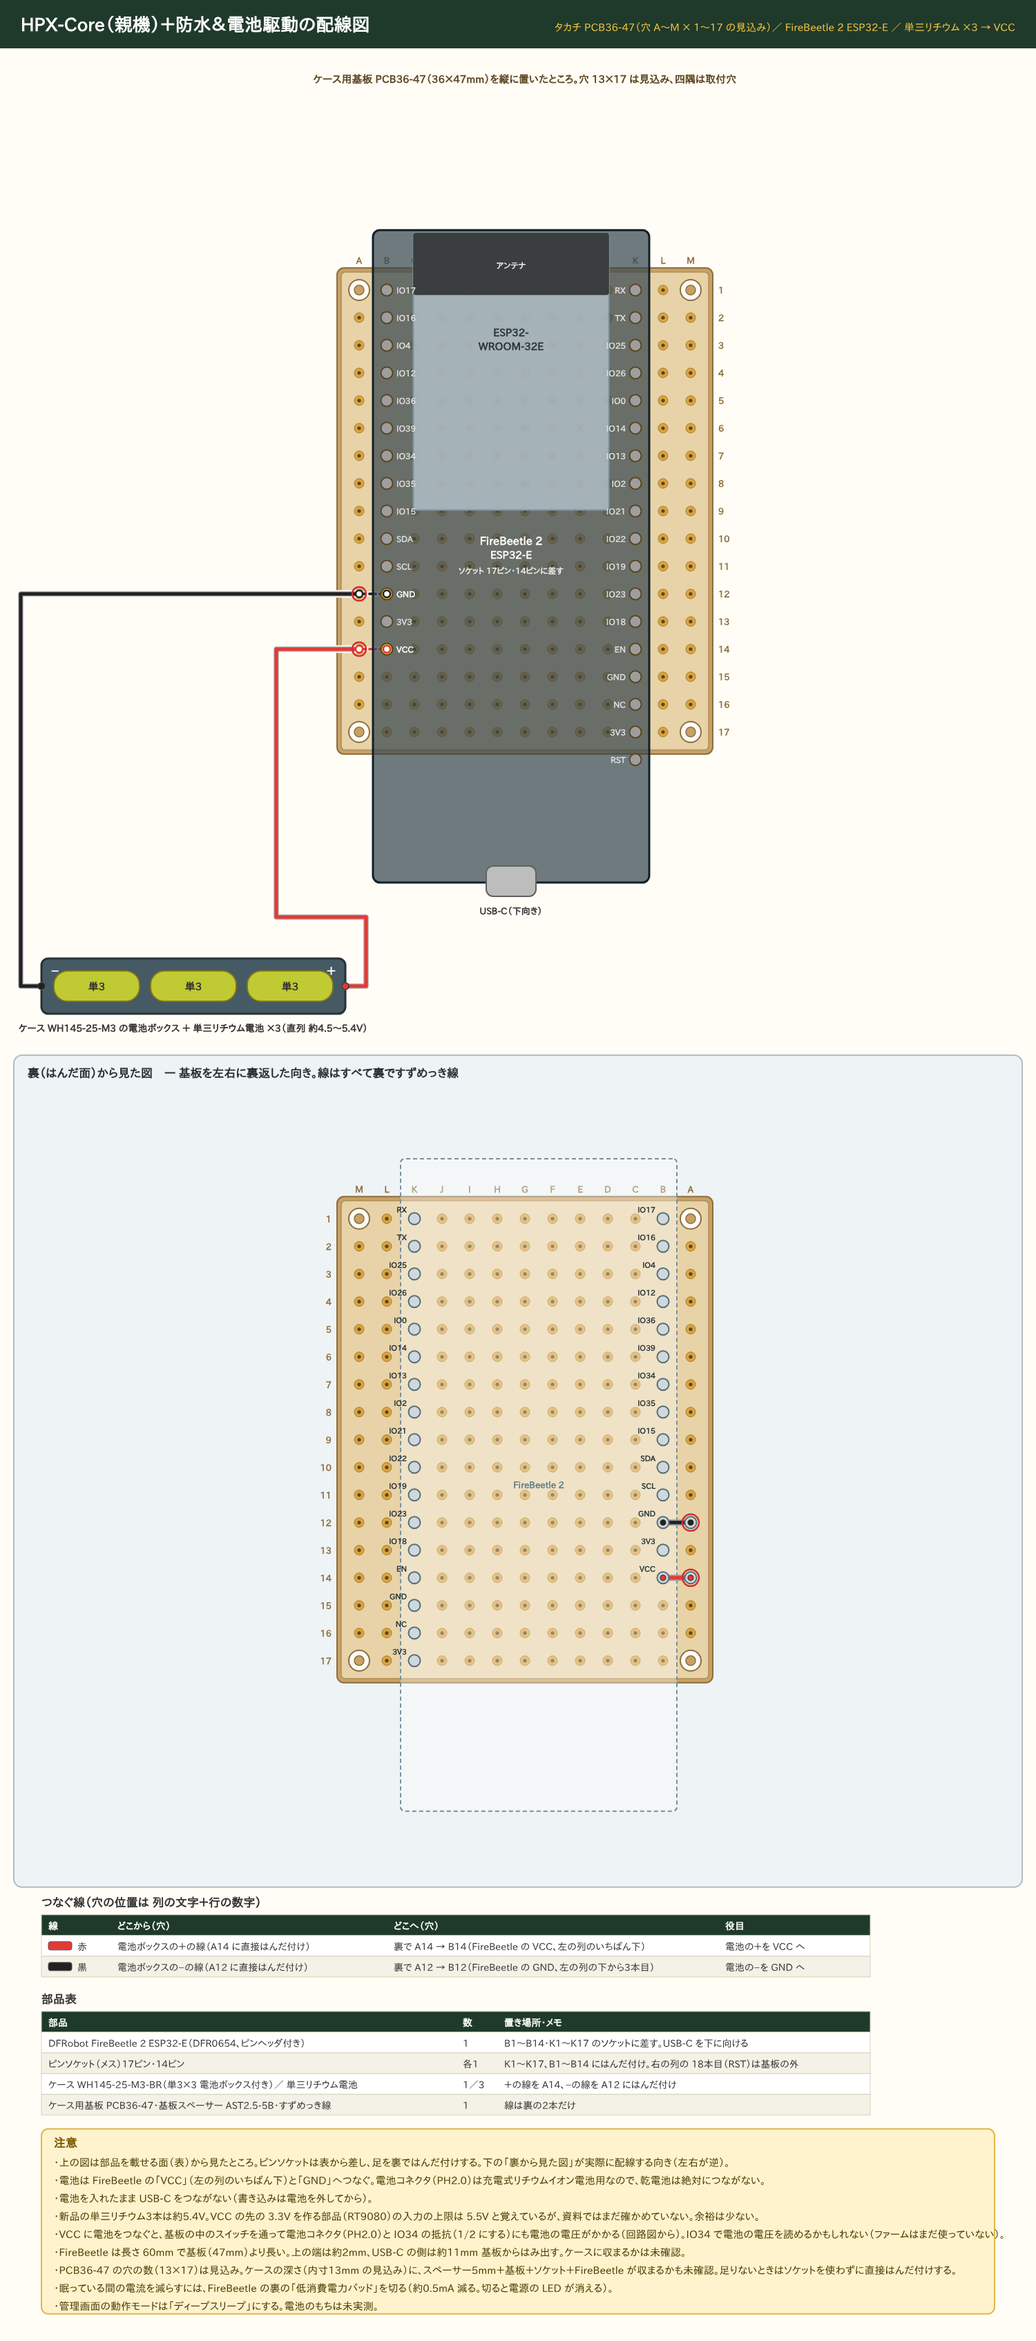
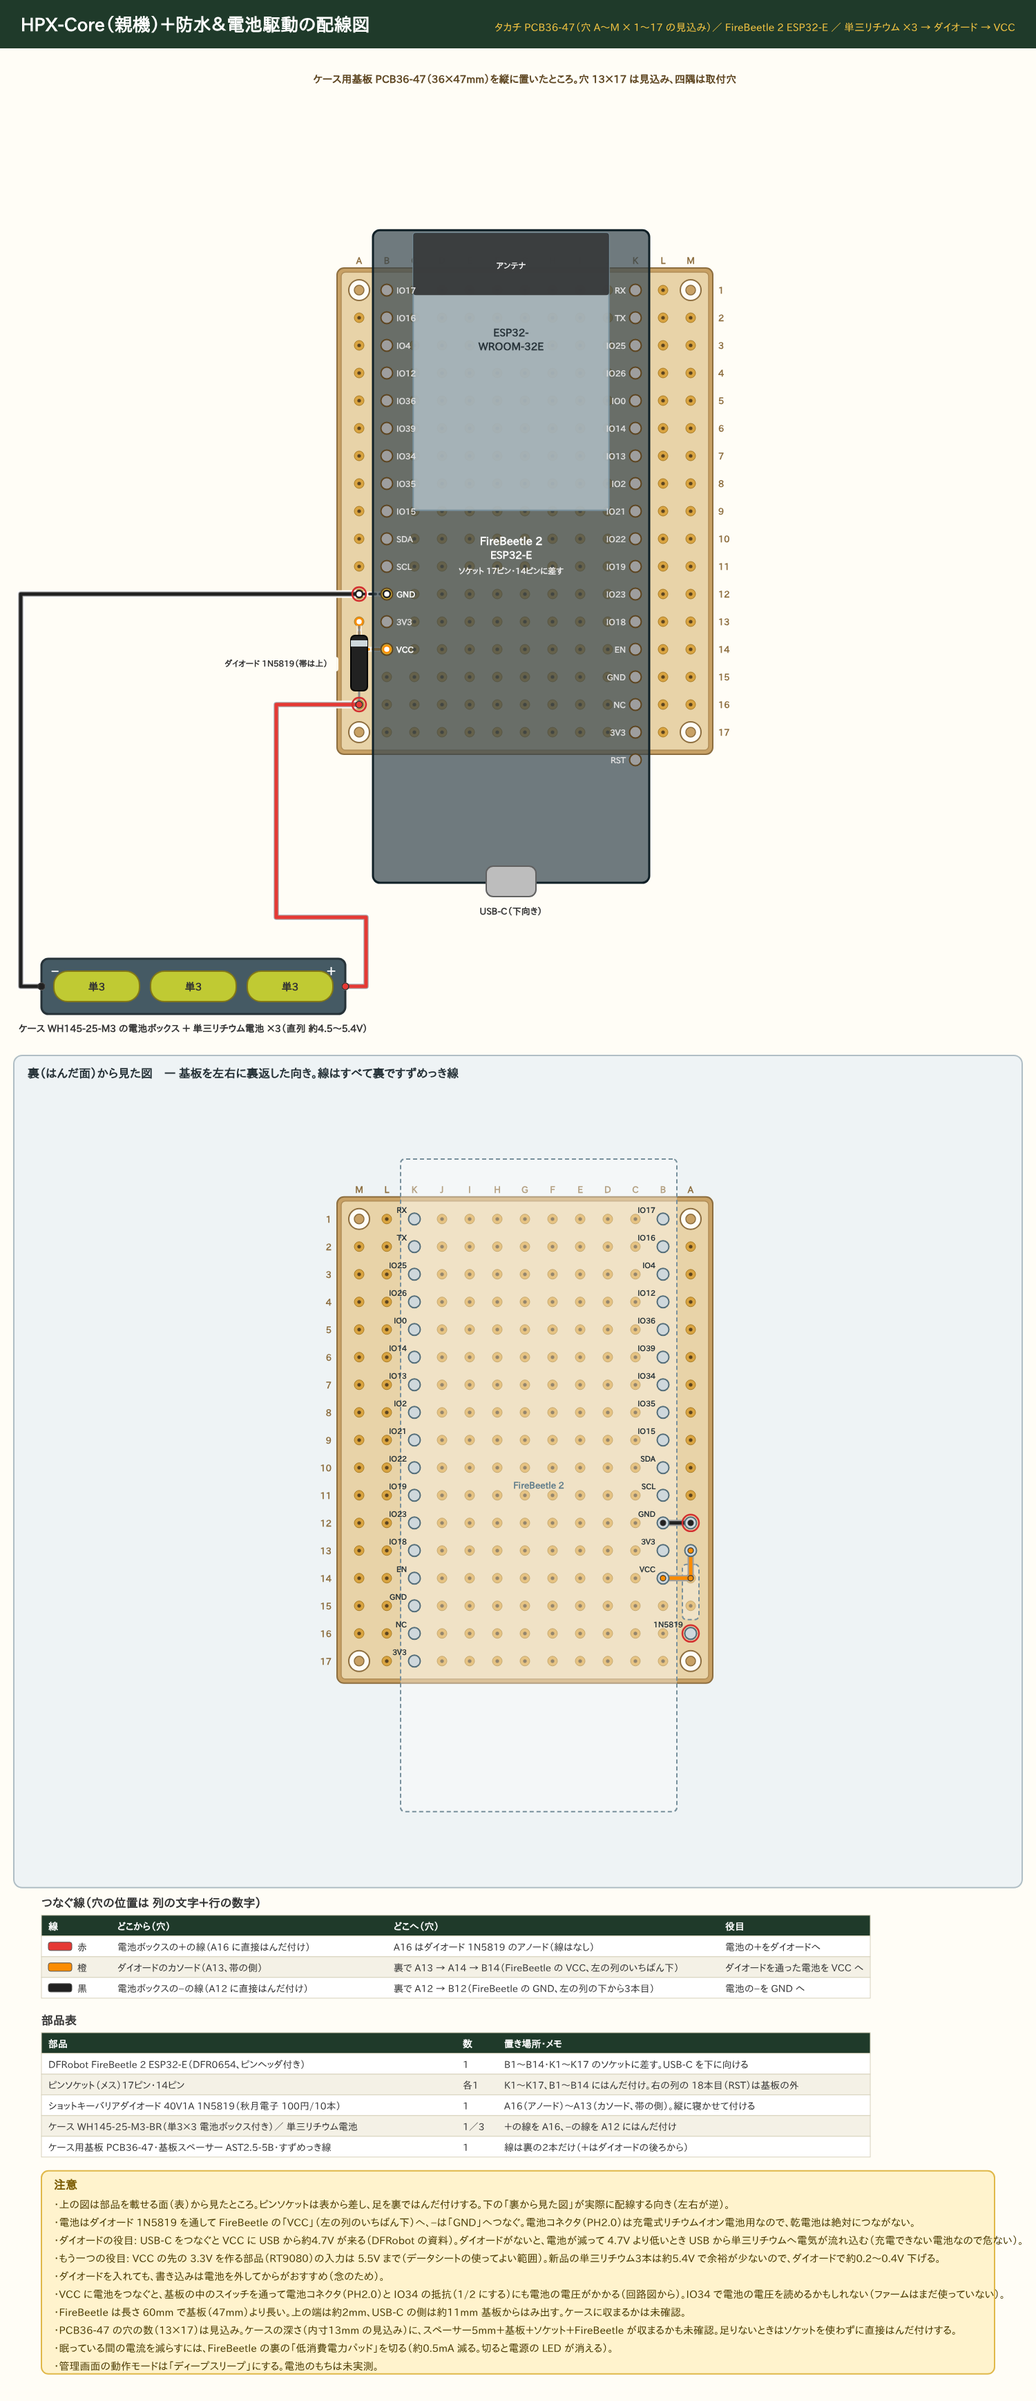
HPX-Core ＋防水＆電池駆動 (FireBeetle 2): 電池＋と VCC の間にダイオード 1N5819 を入れる
USB-C をつないだとき USB の約4.7V (DFRobot の資料の VCC の値) が
単三リチウム (充電できない電池) へ流れ込むのを防ぎ、新品3本の約5.4V を
VCC の先の RT9080 の入力上限 5.5V から離すため。
図・つなぐ線の表・部品表・注意・機器ページ・README を更新。

Claude-Session: https://claude.ai/code/session_01LCC9B4aakB2ekLQa4qJ9BS

diff --git a/hardware/wiring/gen_pcb.py b/hardware/wiring/gen_pcb.py
@@ -1719,10 +1719,11 @@ finish(s, y, [
 
 # ------------------------------------------------------------------ ＋防水＆電池駆動（タカチ PCB36-47）
 # FireBeetle（USB-C が下）。右の列（18ピン）の RX を K1 に置くと RST（18本目）は基板の下の端からはみ出す → ソケットは 17ピン。
-# 電池の＋は VCC（B14）、−は GND（B12）。FireBeetle の VCC は 3.3V を作る部品（RT9080）の入口。
+# 電池の＋は ダイオード 1N5819（A16→A13）を通して VCC（B14）、−は GND（B12）。FireBeetle の VCC は 3.3V を作る部品（RT9080）の入口。
+# TARO 2026-11-14: USB をつないだとき USB の 5V（約4.7V）が単三リチウムへ流れ込まないように、また新品 5.4V を 5.5V 上限から離すためにダイオードを入れた。
 OX, OY = 520, 420
 s = S(1500, 3000)
-title(s, "HPX-Core（親機）＋防水＆電池駆動の配線図", "タカチ PCB36-47（穴 A〜M × 1〜17 の見込み）／ FireBeetle 2 ESP32-E ／ 単三リチウム ×3 → VCC")
+title(s, "HPX-Core（親機）＋防水＆電池駆動の配線図", "タカチ PCB36-47（穴 A〜M × 1〜17 の見込み）／ FireBeetle 2 ESP32-E ／ 単三リチウム ×3 → ダイオード → VCC")
 board(s, 13, 17, " ")
 s.text(OX + 6 * P, 120, "ケース用基板 PCB36-47（36×47mm）を縦に置いたところ。穴 13×17 は見込み、四隅は取付穴", 15, "middle", "bold", "#5d4520")
 for c, r in ((0, 0), (12, 0), (0, 16), (12, 16)):
@@ -1731,7 +1732,18 @@ for c, r in ((0, 0), (12, 0), (0, 16), (12, 16)):
     s.add(f'<circle cx="{x}" cy="{y}" r="7" fill="#c8a165" stroke="#8d6e3f" stroke-width="1.5"/>')
 REC["board"] = REC["board"] + s.items[-8:]
 fx1, fy1, fx2, fy2 = fb("B", "K", 1, True, {"B12", "B14"}, "ソケット 17ピン・14ピンに差す")
-tp, tm = H(*hole("A14")), H(*hole("A12"))
+# ショットキーダイオード 1N5819（A 列に縦に寝かせて付ける。A16＝アノード、A13＝カソード（帯の側、上））
+(dx1, dy1), (dx2, dy2) = H(*hole("A16")), H(*hole("A13"))
+rec_pin(dx1, dy1, "1N5819"); rec_pin(dx2, dy2, "")
+s.top.append(f'<line x1="{dx1}" y1="{dy1}" x2="{dx2}" y2="{dy2}" stroke="#888" stroke-width="3"/>')
+dmy = (dy1 + dy2) / 2
+s.top.append(f'<rect x="{dx1-12}" y="{dmy-40}" width="24" height="80" rx="6" fill="#212121" stroke="#000" stroke-width="2"/>')
+s.top.append(f'<rect x="{dx1-12}" y="{dmy-33}" width="24" height="9" fill="#cfd8dc"/>')
+for x_, y_ in ((dx1, dy1), (dx2, dy2)):
+    s.top.append(f'<circle cx="{x_}" cy="{y_}" r="4" fill="#666"/>')
+rec_part(dx1 - 12, dmy - 40, 24, 80, "")
+tag(dx1 - 120, dmy + 5, "ダイオード 1N5819（帯は上）", 12, "middle", w=180)
+tp, tm = H(*hole("A16")), H(*hole("A12"))
 bx0, by0 = 60, fy2 + 110
 s.rect(bx0, by0, 440, 80, "#455a64", "#263238", 10, 3)
 for i in range(3):
@@ -1742,28 +1754,31 @@ s.text(bx0 + 14, by0 + 24, "−", 18, "start", "bold", "#fff")
 s.text(bx0 + 220, by0 + 106, "ケース WH145-25-M3 の電池ボックス ＋ 単三リチウム電池 ×3（直列 約4.5〜5.4V）", 14, "middle", "bold")
 s.wire([(bx0 + 440, by0 + 40), (bx0 + 470, by0 + 40), (bx0 + 470, fy2 + 50), (OX - 120, fy2 + 50), (OX - 120, tp[1]), tp], "red")
 s.wire([(bx0, by0 + 40), (bx0 - 30, by0 + 40), (bx0 - 30, tm[1]), tm], "black")
-solder_mark(s, *hole("A14")); solder_mark(s, *hole("A12"))
-w("red", "A14", "B14")      # 電池＋ → VCC
+solder_mark(s, *hole("A16")); solder_mark(s, *hole("A12"))
+w("orange", "A13", "A14", "B14")   # ダイオードのカソード → VCC
 w("black", "A12", "B12")    # 電池− → GND
 check_back("HPX-Core_BAT_pcb.svg")
 yb = backview(s, by0 + 140, OX + (NC - 1) * P / 2, fy1 - 90, fy2 + 60)
 y = table(s, 60, yb + 40, [
     ["線", "どこから（穴）", "どこへ（穴）", "役目"],
-    ["red", "電池ボックスの＋の線（A14 に直接はんだ付け）", "裏で A14 → B14（FireBeetle の VCC、左の列のいちばん下）", "電池の＋を VCC へ"],
+    ["red", "電池ボックスの＋の線（A16 に直接はんだ付け）", "A16 はダイオード 1N5819 のアノード（線はなし）", "電池の＋をダイオードへ"],
+    ["orange", "ダイオードのカソード（A13、帯の側）", "裏で A13 → A14 → B14（FireBeetle の VCC、左の列のいちばん下）", "ダイオードを通った電池を VCC へ"],
     ["black", "電池ボックスの−の線（A12 に直接はんだ付け）", "裏で A12 → B12（FireBeetle の GND、左の列の下から3本目）", "電池の−を GND へ"],
 ], [100, 400, 480, 220], "つなぐ線（穴の位置は 列の文字＋行の数字）")
 y = table(s, 60, y + 50, [
     ["部品", "数", "置き場所・メモ"],
     FB_PARTS + ["B1〜B14・K1〜K17 のソケットに差す。USB-C を下に向ける"],
     ["ピンソケット（メス）17ピン・14ピン", "各1", "K1〜K17、B1〜B14 にはんだ付け。右の列の 18本目（RST）は基板の外"],
-    ["ケース WH145-25-M3-BR（単3×3 電池ボックス付き）／ 単三リチウム電池", "1／3", "＋の線を A14、−の線を A12 にはんだ付け"],
-    ["ケース用基板 PCB36-47・基板スペーサー AST2.5-5B・すずめっき線", "1", "線は裏の2本だけ"],
+    ["ショットキーバリアダイオード 40V1A 1N5819（秋月電子 100円/10本）", "1", "A16（アノード）〜A13（カソード、帯の側）。縦に寝かせて付ける"],
+    ["ケース WH145-25-M3-BR（単3×3 電池ボックス付き）／ 単三リチウム電池", "1／3", "＋の線を A16、−の線を A12 にはんだ付け"],
+    ["ケース用基板 PCB36-47・基板スペーサー AST2.5-5B・すずめっき線", "1", "線は裏の2本だけ（＋はダイオードの後ろから）"],
 ], [600, 60, 540], "部品表")
 finish(s, y, [
     "・上の図は部品を載せる面（表）から見たところ。ピンソケットは表から差し、足を裏ではんだ付けする。下の「裏から見た図」が実際に配線する向き（左右が逆）。",
-    "・電池は FireBeetle の「VCC」（左の列のいちばん下）と「GND」へつなぐ。電池コネクタ（PH2.0）は充電式リチウムイオン電池用なので、乾電池は絶対につながない。",
-    "・電池を入れたまま USB-C をつながない（書き込みは電池を外してから）。",
-    "・新品の単三リチウム3本は約5.4V。VCC の先の 3.3V を作る部品（RT9080）の入力の上限は 5.5V と覚えているが、資料ではまだ確かめていない。余裕は少ない。",
+    "・電池はダイオード 1N5819 を通して FireBeetle の「VCC」（左の列のいちばん下）へ、−は「GND」へつなぐ。電池コネクタ（PH2.0）は充電式リチウムイオン電池用なので、乾電池は絶対につながない。",
+    "・ダイオードの役目: USB-C をつなぐと VCC に USB から約4.7V が来る（DFRobot の資料）。ダイオードがないと、電池が減って 4.7V より低いとき USB から単三リチウムへ電気が流れ込む（充電できない電池なので危ない）。",
+    "・もう一つの役目: VCC の先の 3.3V を作る部品（RT9080）の入力は 5.5V まで（データシートの使ってよい範囲）。新品の単三リチウム3本は約5.4V で余裕が少ないので、ダイオードで約0.2〜0.4V 下げる。",
+    "・ダイオードを入れても、書き込みは電池を外してからがおすすめ（念のため）。",
     "・VCC に電池をつなぐと、基板の中のスイッチを通って電池コネクタ（PH2.0）と IO34 の抵抗（1/2 にする）にも電池の電圧がかかる（回路図から）。IO34 で電池の電圧を読めるかもしれない（ファームはまだ使っていない）。",
     "・FireBeetle は長さ 60mm で基板（47mm）より長い。上の端は約2mm、USB-C の側は約11mm 基板からはみ出す。ケースに収まるかは未確認。",
     "・PCB36-47 の穴の数（13×17）は見込み。ケースの深さ（内寸13mm の見込み）に、スペーサー5mm＋基板＋ソケット＋FireBeetle が収まるかも未確認。足りないときはソケットを使わずに直接はんだ付けする。",

diff --git a/hardware/parts/gen_device_pages.py b/hardware/parts/gen_device_pages.py
@@ -56,7 +56,7 @@ DEVICES = [
                  [('HPX-Core_LANV_olimex_pcb.png', 'Olimex ESP32-DEVKIT-LIPO'), ('HPX-Core_LANV_elegoo_pcb.png', 'ELEGOO ESP-32')]),
                 ('HPX-Core_wiring.png', '＋防水の配線図', 'ケースの中で FireBeetle 2 ESP32-E の USB-C と防水USBカプラーを短い USB-C ケーブルでつなぎ、外から USB 電源をつなぎます。外付けの配線はありません。HPX-Solar から電気をもらって電池とパネルの電圧も測るときは、右の枠のように USB-C メス基板で 4本に分けます (試作中、ファーム v1.25 以降)。', 'core_wp',
                  [('HPX-Core_olimex_wiring.png', 'Olimex ESP32-DEVKIT-LIPO'), ('HPX-Core_freenove_wiring.png', 'Freenove ESP32 WROOM (FNK0090)'), ('HPX-Core_elegoo_wiring.png', 'ELEGOO ESP-32')]),
-                ('HPX-Core_BAT_pcb.png', '＋防水＆電池駆動の配線図', 'ケース用基板 PCB36-47 に FireBeetle 2 ESP32-E をピンソケットで差し、ケース WH145-25-M3 の電池ボックス (単三リチウム3本、約4.5〜5.4V) の線を FireBeetle の VCC と GND へつなぎます (表と裏、線は裏の2本だけ)。FireBeetle の電池コネクタは充電式リチウムイオン電池用なので、乾電池はつながないでください。FireBeetle は基板より長く、ケースに収まるかはまだ確かめていません。管理画面の動作モードは「ディープスリープ」にします。', 'core_bat',
+                ('HPX-Core_BAT_pcb.png', '＋防水＆電池駆動の配線図', 'ケース用基板 PCB36-47 に FireBeetle 2 ESP32-E をピンソケットで差し、ケース WH145-25-M3 の電池ボックス (単三リチウム3本、約4.5〜5.4V) の＋をダイオード 1N5819 を通して FireBeetle の VCC へ、−を GND へつなぎます (表と裏、線は裏の2本だけ)。ダイオードは、USB-C をつないだときに USB の電気が電池へ流れ込むのを防ぎ、新品の電池の電圧 (約5.4V) を少し下げます。FireBeetle の電池コネクタは充電式リチウムイオン電池用なので、乾電池はつながないでください。FireBeetle は基板より長く、ケースに収まるかはまだ確かめていません。管理画面の動作モードは「ディープスリープ」にします。', 'core_bat',
                  [('HPX-Core_BAT_olimex_pcb.png', 'Olimex ESP32-DEVKIT-LIPO'), ('HPX-Core_BAT_freenove_pcb.png', 'Freenove ESP32 WROOM (FNK0090)'), ('HPX-Core_BAT_elegoo_pcb.png', 'ELEGOO ESP-32')]),
                 ('HPX-Core_LTE_pcb.png', '＋LTE-M の基板の配線図', 'ユニバーサル基板 タカチ PCB72-95 の左端に FireBeetle 2 ESP32-E をピンソケットで差し、右に CatM の 5V を入り切りするスイッチ (P-MOSFET・NPN トランジスタ・抵抗)、下に M5Stamp CatM を貼る図です (表と裏、線はすべて裏)。電源はケースの壁の USB-C メス基板から (HPX-Solar か USB 充電器)、その 4本の線を赤丸の穴へはんだ付けします。ケースはタカチ OB10-17-5W です (ケースはあとで考え直します)。', 'core_lte',
                  [('HPX-Core_LTE_olimex_pcb.png', 'Olimex ESP32-DEVKIT-LIPO'), ('HPX-Core_LTE_freenove_pcb.png', 'Freenove ESP32 WROOM (FNK0090)'), ('HPX-Core_LTE_elegoo_pcb.png', 'ELEGOO ESP-32')]),

diff --git a/hardware/wiring/README.md b/hardware/wiring/README.md
@@ -13,7 +13,7 @@
 | HPX-Core ＋防水 | [HPX-Core_wiring.png](HPX-Core_wiring.png) | FireBeetle 2 ESP32-E (DFR0654)。外付けの配線なし。防水USBカプラー (USB-C) から短い USB-C ケーブルで給電。HPX-Solar で電圧も測るときは、中を USB-C メス基板 (データ対応) にして VBUS→VCC・GND・D+→IO39・D−→IO36 のジャンパー線4本に (試作中、ファーム v1.25) |
 | HPX-Core ＋有線LAN | [HPX-Core_LAN_pcb.png](HPX-Core_LAN_pcb.png) (6×8cm 基板に組む図) | FireBeetle 2 ESP32-E + W5500 (ACEIRMC): INT=IO25, CS=IO26, SCK=IO14, MOSI(MO)=IO13, MISO(MI)=IO19, RST=IO23, V=3V3, G=GND (6本とも FireBeetle の 18ピンの列。HPX_Core v1.25 以降、接続方法を「有線LAN」に)。USB 電源 |
 | HPX-Core ＋有線LAN＆ソーラーシステムチェック | [HPX-Core_LANV_pcb.png](HPX-Core_LANV_pcb.png) (6×8cm 基板、ケース PFF10-4-10W) | 「＋有線LAN」と同じ FireBeetle・W5500 に、パネル＋ → 100kΩ/8.2kΩ → IO39、バッテリー＋ → 100kΩ/15kΩ → IO35、BP5293-50 (バッテリー → 5V → VCC)、端子台 3極 (パネル＋・マイナス・バッテリー＋) を足す。USB ではなくバッテリーで動かす (HPX_Core v1.25 以降、動作設定で「バッテリー・パネルの電圧を測る」) |
-| HPX-Core ＋防水＆電池駆動 | [HPX-Core_BAT_pcb.png](HPX-Core_BAT_pcb.png) (ケース用基板 PCB36-47 に組む図) | FireBeetle 2 ESP32-E の VCC (左の列のいちばん下) ← 単三リチウム×3 の＋、GND ← −。電池コネクタ (PH2.0) は使わない。動作モードはディープスリープ |
+| HPX-Core ＋防水＆電池駆動 | [HPX-Core_BAT_pcb.png](HPX-Core_BAT_pcb.png) (ケース用基板 PCB36-47 に組む図) | FireBeetle 2 ESP32-E の VCC (左の列のいちばん下) ← ショットキーダイオード 1N5819 (A16→A13) ← 単三リチウム×3 の＋、GND ← −。ダイオードは USB をつないだとき USB の約4.7V が電池へ流れ込むのを防ぎ、新品 5.4V を RT9080 の入力上限 5.5V から離すため (2026-11-14)。電池コネクタ (PH2.0) は使わない。動作モードはディープスリープ |
 | HPX-Core 基本モデル | [HPX-Core_BASIC_pcb.png](HPX-Core_BASIC_pcb.png) (6×8cm 基板に FireBeetle 2 ESP32-E をピンソケットで差すだけ。＋有線LAN から W5500 を外したもの、ケース PFF10-4-10W) | Wi-Fi ＋ USB 給電。線なし |
 | HPX-Core ＋LTE-M (試作中) | [HPX-Core_LTE_pcb.png](HPX-Core_LTE_pcb.png) (タカチ PCB72-95 に FireBeetle・M5Stamp CatM・CatM の 5V スイッチ、ケース タカチ OB10-17-5W)・[HPX-Core_LTE_wiring.png](HPX-Core_LTE_wiring.png) (線の対応) | FireBeetle 2 ESP32-E + M5Stamp CatM (SIM7080G、TX→IO16・RX←IO17)。電源はケースの壁の USB-C メス基板 (データ対応) から: VBUS → FireBeetle VCC と P-MOSFET (IO4 → 10kΩ → NPN → ゲート、ゲート 100kΩ → 5V、ベース 100kΩ → GND) → CatM 5V、D+ → IO39 (HPX-Solar の電池 1/2)、D− → IO36 (パネル 1/6)。HPX-Solar か USB 充電器につなぐ。ファーム HPX-Core v1.25 |
 | HPX-Solar (試作中、小型ソーラー電源) | [HPX-Solar_pcb.png](HPX-Solar_pcb.png) (タカチ PCB72-95 に入力 USB-C メス基板・DFR0559・18650 ホルダー×2・分圧の抵抗、ケース タカチ OB10-17-5W) | 10W/5V パネル (USB-C のまま入力 USB-C メス基板 (5.1kΩ 付き) で受けて DFR0559 SOLAR へ) + 18650×2 並列 (DFR0559 BAT へ)。出力 USB-C (データ対応、ケースの壁): VBUS=DFR0559 5V、GND、D+=電池＋ 100kΩ/100kΩ+0.1µF、D−=パネル＋ 100kΩ/20kΩ+0.1µF。HPX-Core ＋LTE-M・＋防水 へ USB-C ケーブル1本 |
@@ -42,7 +42,7 @@ ELEGOO ESP-32 の [基本モデル](HPX-Core_BASIC_elegoo_pcb.png)・[＋有線L
 - HPX-B: BP5293-50 の足の並び (データシートで確認)、PFF10-4-10W の内側の寸法と基板の留め方、使うソーラーコントローラーが共通マイナスか (違うとパネル電圧は測れない) は未確認
 - HPX-Core の有線LAN (W5500) は実機で確かめていません (ファーム v1.20 はコンパイルだけ確認)。ESP-32 の左右のピン列 10穴・W5500 の左右のピン列 8穴は計算で、実物では未確認。W5500 のピンがモジュールの上下のどこにあるかも未確認
 - HPX-CAM: XIAO ESP32S3 Sense の眠り中の電流、1N5819 を入れたときの Wi-Fi 送信中の電圧、カメラがケースのふたに届く高さ (電池ボックスの上に重ねる案) は未確認
-- HPX-Core 電池版: PCB36-47 の穴の数 (13×17) は見込み。FireBeetle 2 (60mm) は基板 (47mm) からはみ出すので、ケースに収まるか未確認。VCC の先の RT9080 の入力上限 (5.5V と覚えているが資料で未確認) と、新品の単三リチウム3本 (約5.4V) の余裕
+- HPX-Core 電池版: PCB36-47 の穴の数 (13×17) は見込み。FireBeetle 2 (60mm) は基板 (47mm) からはみ出すので、ケースに収まるか未確認。FireBeetle の回路図は DFRobot のサイトに届かず今回は見直せていない (VCC の先が RT9080 であること、USB→VCC のダイオード、電池コネクタへのスイッチは前の作業で読んだもの)。1N5819 を入れたときの Wi-Fi 送信中の電圧と、電池の終わりのほうでどれだけ早く止まるか
 - FireBeetle 2: VCC に外から 5V を入れたとき、基板の中のスイッチを通って電池コネクタ (充電の部品 TP4056) にも電圧がかかる (回路図から)。悪くないかは未確認。値段は未記入
 
 ケースに合わせたタカチ基板 (TNF39-70・TNF34-124・TNF44-69) の図は [case/](case/) にあります。
